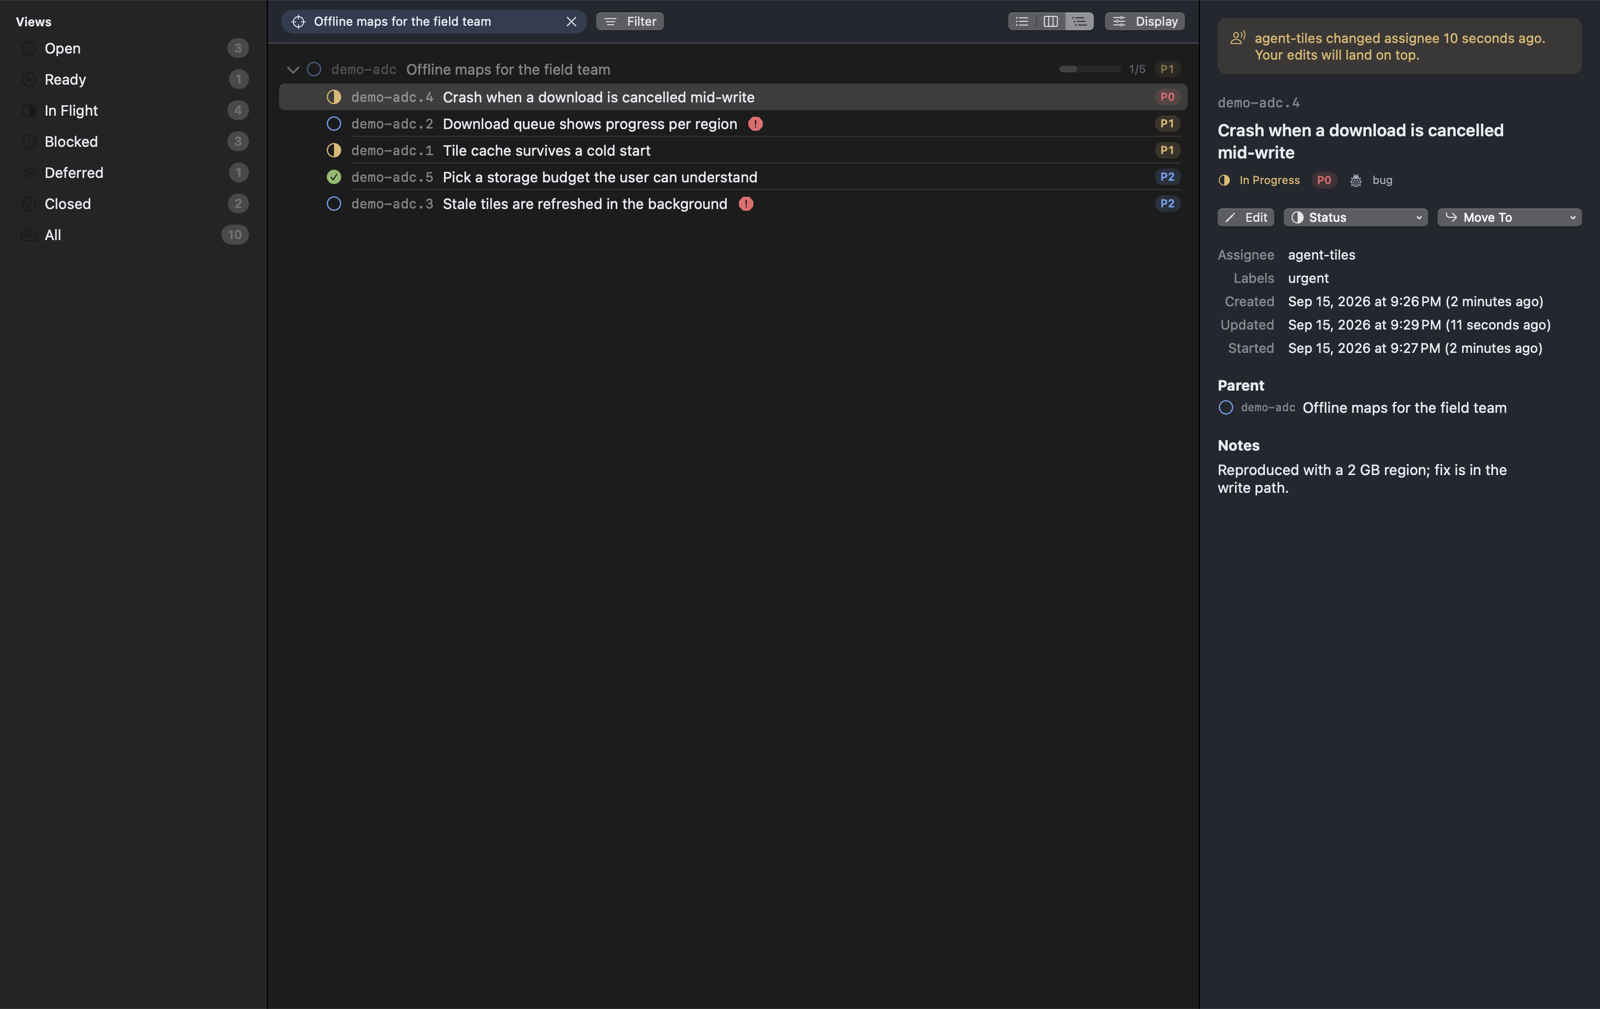
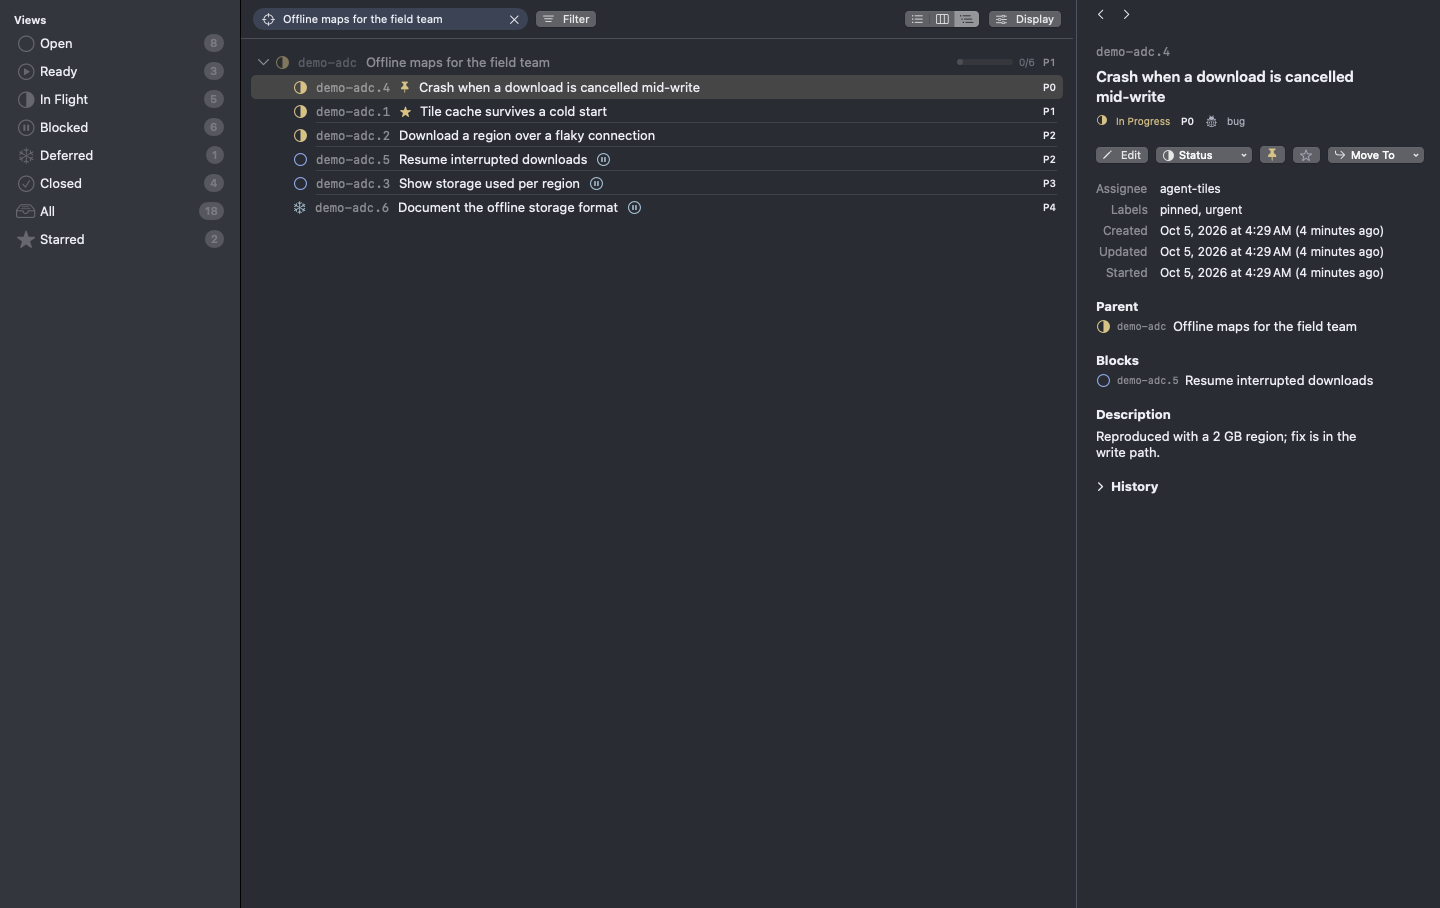
Refresh the README screenshots (bdv-k3d) (#23)
The old images came from a demo database that no longer exists, and the first
one showed a warning banner the app dropped long ago. All of them are
re-rendered from a fresh demo database (18 beads: three epics, blocked and
deferred work, pins and stars, a dependency chain) with the offscreen
snapshot run, so they show the current UI: In Flight list, light list, board,
tree, command palette, theme picker, change confirmation.

Adds the dependency graph, focused on one bead, to its README section, and
the light-theme list under Themes. Rewrites the caption that described the
removed banner.

diff --git a/README.md b/README.md
@@ -12,8 +12,8 @@ be writing to the same database while you read it. Beady is the window onto that
 `bd --readonly`, watches the database for changes so the view is never stale, and puts every write
 behind validation, a preview of the exact `bd` commands, and a read-back check.
 
-The screenshot above is Beady noticing that something else moved while you were looking: an agent
-touched that bead four seconds ago, and the app says so rather than pretending it owns the data.
+The screenshot above is the In Flight view: work grouped by status, the pinned P0 bug on top, and
+the details of the selected bead — including what it's holding up — alongside.
 
 ## What it's for
 
@@ -56,6 +56,8 @@ the theme.
 
 ![Theme picker](docs/images/themes.png)
 
+![The same list in a light theme](docs/images/list-light.png)
+
 System, light or dark, with the best-known editor themes on both sides — Dracula, One Dark, Nord,
 Solarized Light, GitHub Light, One Light — plus a high-contrast pair that macOS's own
 **Increase Contrast** setting switches to on its own. Text scales from Small to Extra Large.
@@ -73,6 +75,8 @@ body text clears WCAG AA (4.5:1) on both the background and a row, status and pr
 clear 3:1, and the high-contrast themes clear AAA (7:1).
 
 ## The dependency graph
+
+![Dependency graph focused on one bead](docs/images/graph.png)
 
 ⌘G opens every `blocks` dependency in the database as one graph, read left to right the way
 `bd graph` reads: what can start now on the left, what waits on it further right. Click any bead
